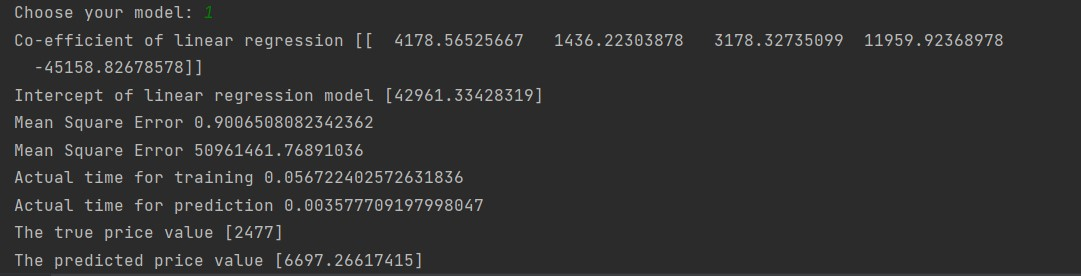
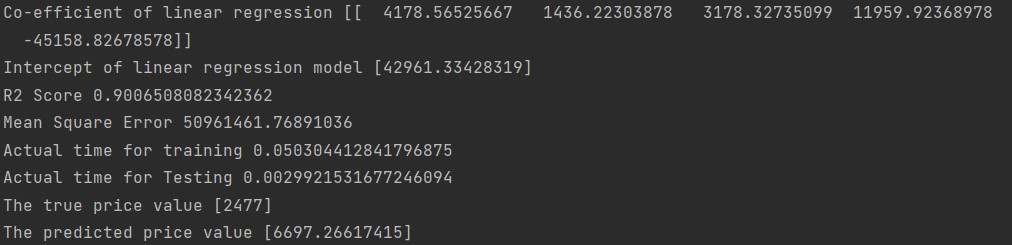
Final version

diff --git a/main.py b/main.py
@@ -60,7 +60,7 @@ if choice == 1:
     print('R2 Score', metrics.r2_score(y_test, Prediction))
     print('Mean Square Error', metrics.mean_squared_error(np.asarray(y_test), Prediction))
     print("Actual time for training", endTrain - startTrain)
-    print("Actual time for prediction", end_test - start_test)
+    print("Actual time for Testing", end_test - start_test)
 
     true_price_value = np.asarray(y_test)[0]
     predicted_price_value = Prediction[0]
@@ -90,7 +90,7 @@ elif choice == 2:
     print('R2 Score', metrics.r2_score(y_test, prediction))
     print('Mean Square Error', metrics.mean_squared_error(y_test, prediction))
     print("Actual time for training", endTrain - startTrain)
-    print("Actual time for prediction", end_test - start_test)
+    print("Actual time for Testing", end_test - start_test)
 
     true_price_value = np.asarray(y_test)[0]
     predicted_price_value = prediction[0]
